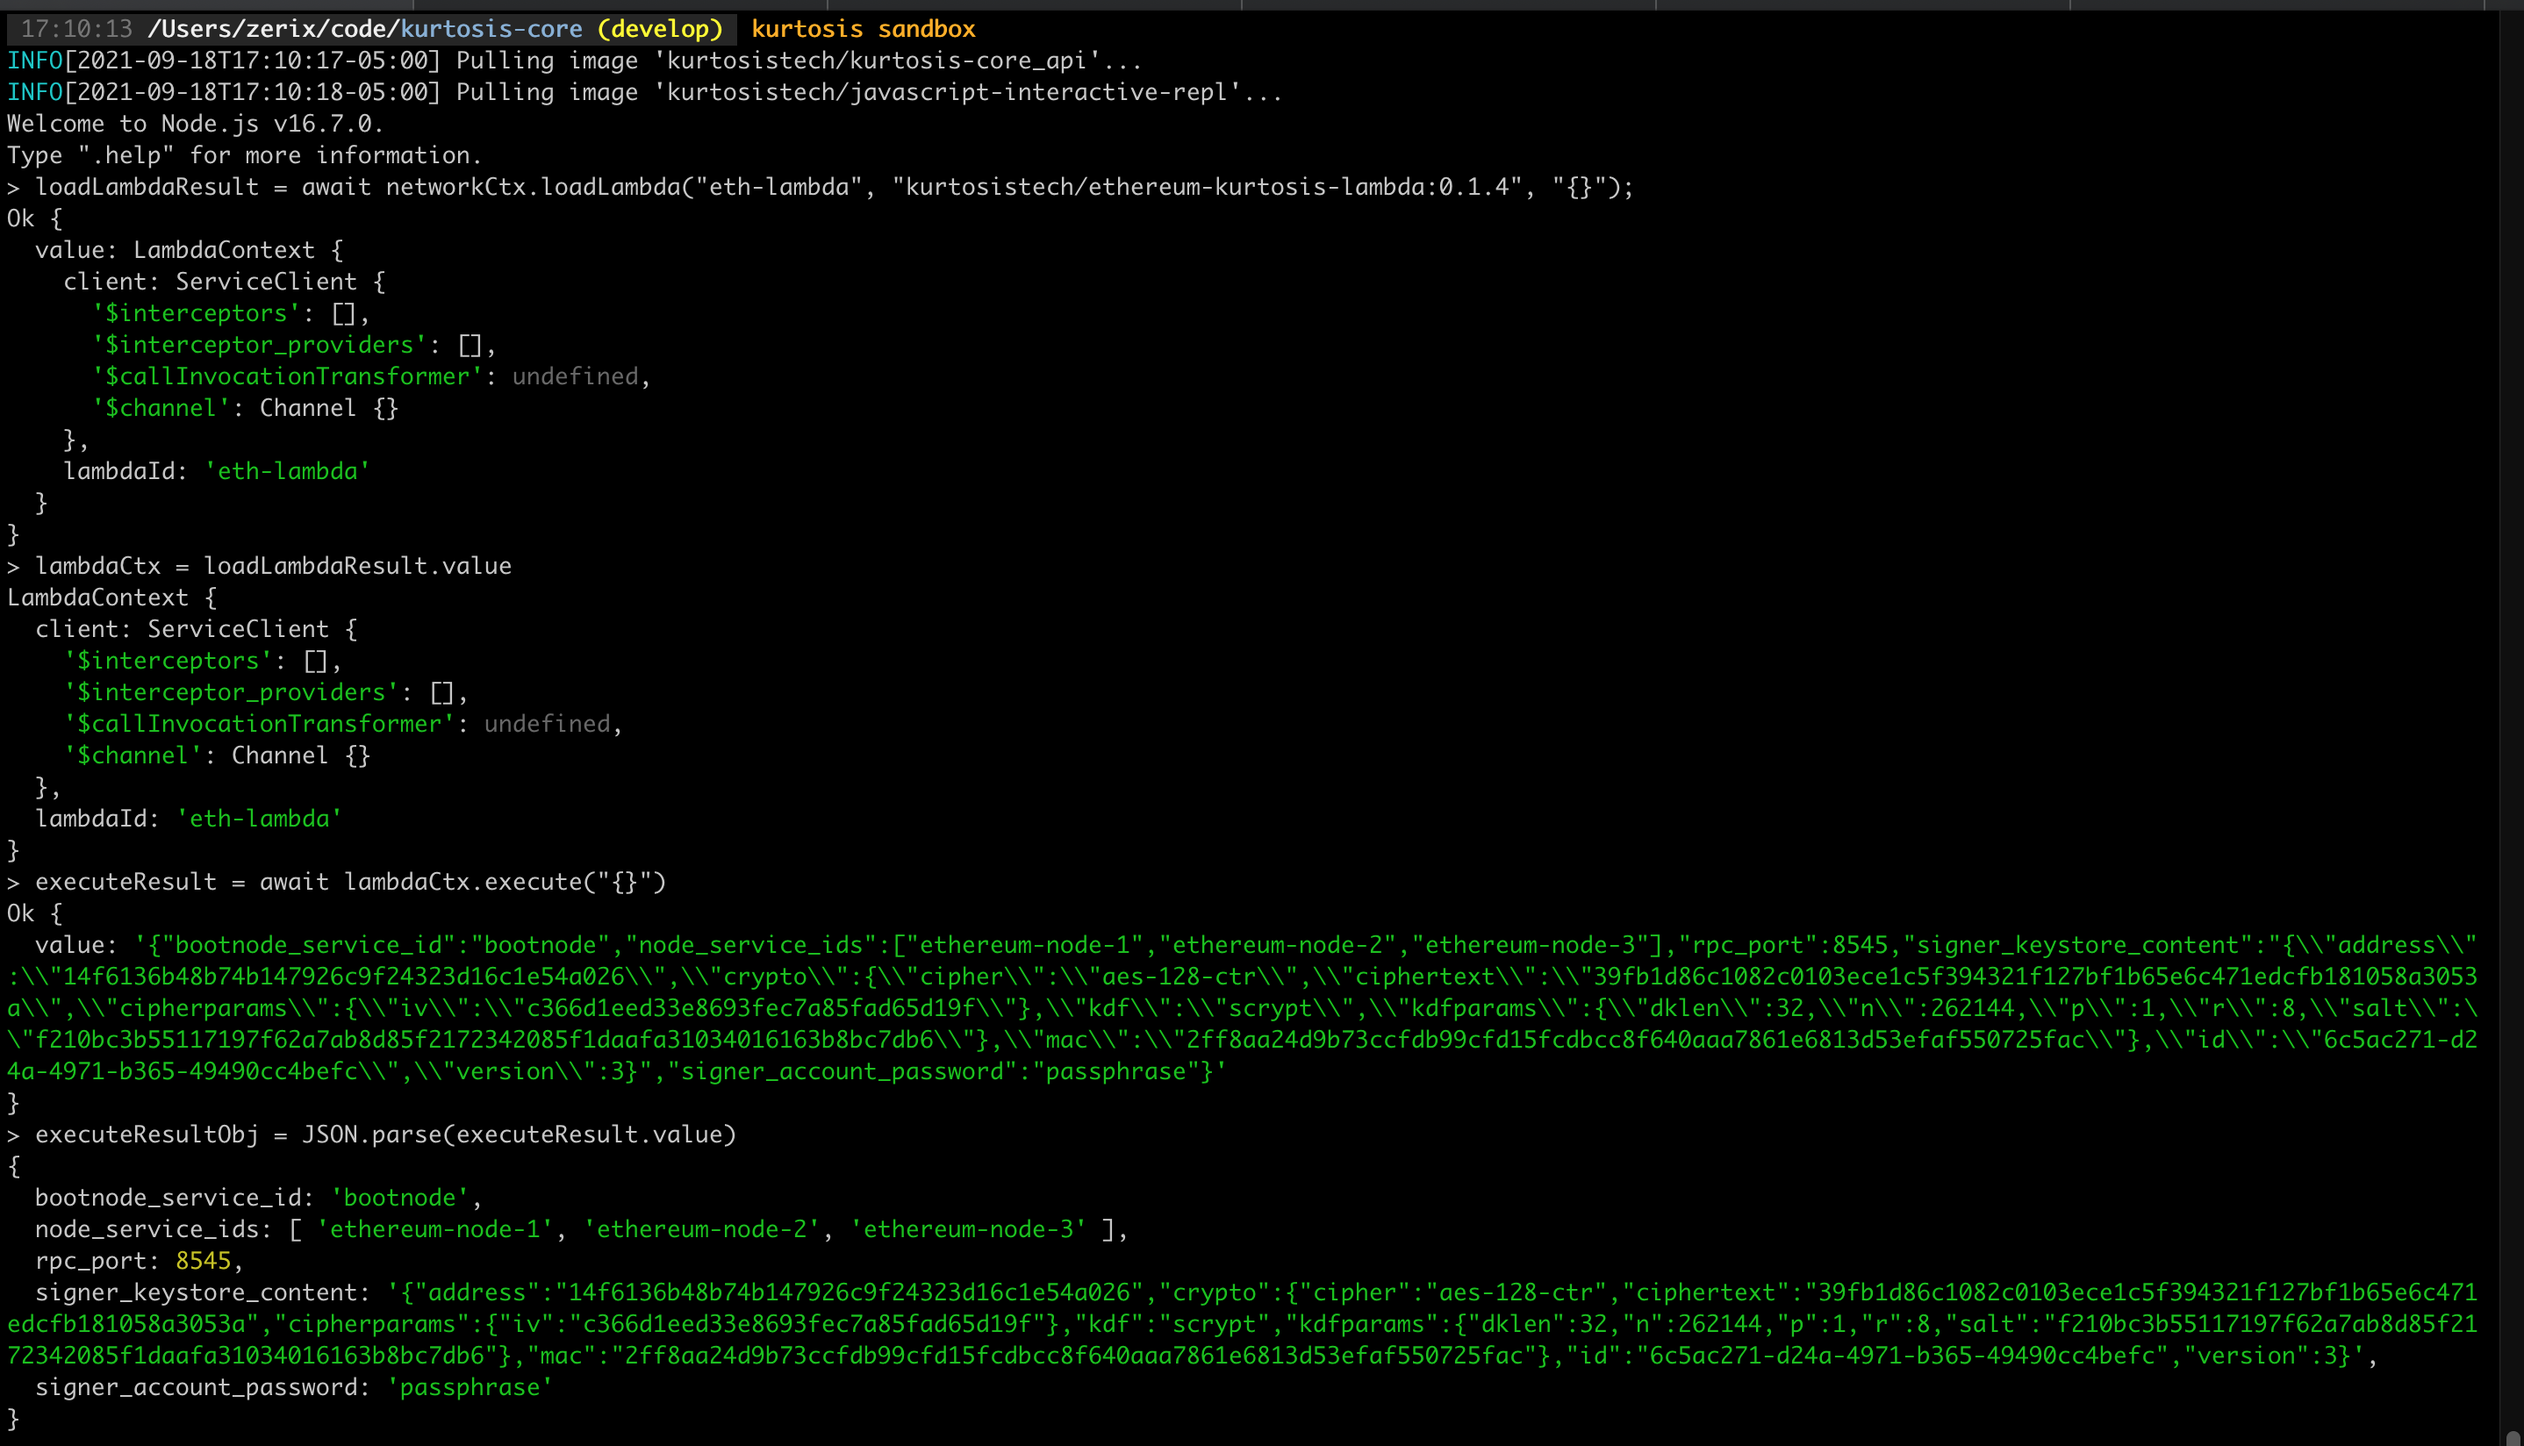
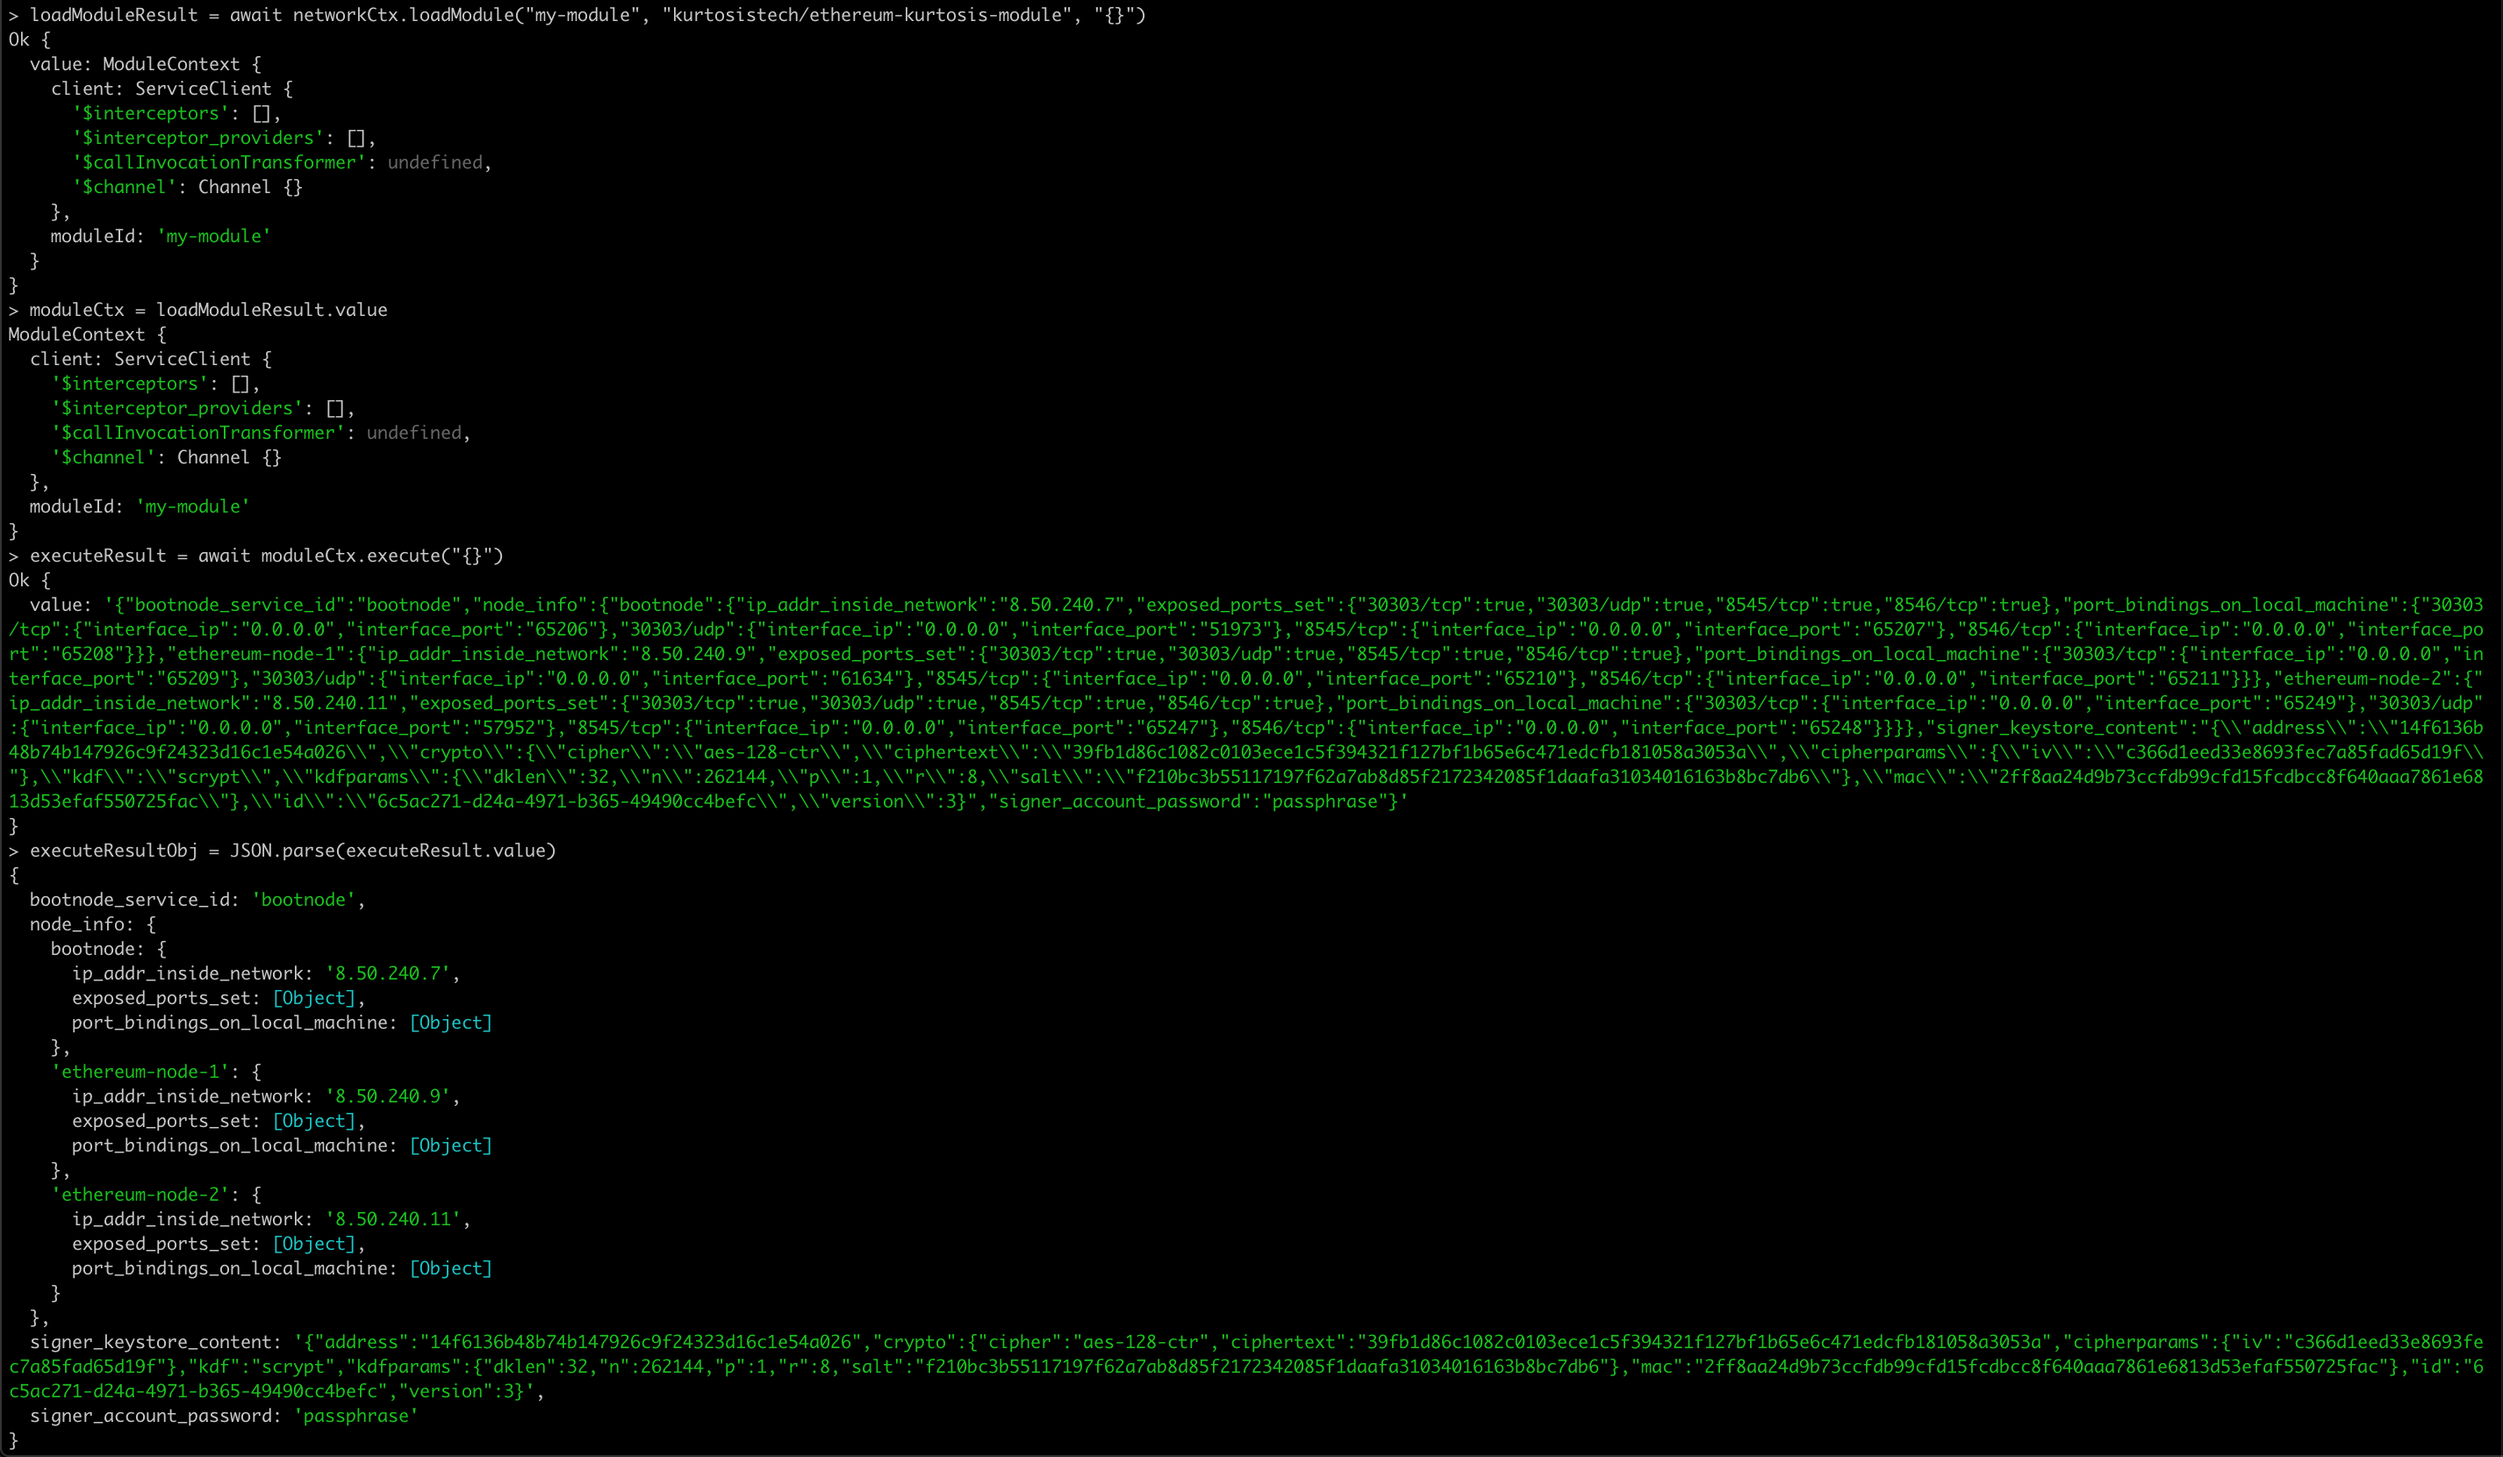
Rename all Lambda references to modules

Changed region(s): [[0.0, 0.0, 1.0, 1.0], [0.3745, 0.1238, 0.5617, 0.1547], [0.2184, 0.2476, 0.2496, 0.2785]]

diff --git a/modules.md b/modules.md
@@ -1,0 +1,48 @@
+Kurtosis Modules
+================
+### What's a module?
+You might want to package your logic for a wider audience (e.g. your users), or you might want to consume someone else's logic. Kurtosis' solution to this are "modules", which are chunks of code, packaged as container images, that execute within the Kurtosis context. You can think of a module as a language-agnostic library.
+
+To write your own module, visit [the module starter pack repo](https://github.com/kurtosis-tech/kurtosis-module-starter-pack).
+
+### Uses
+Some hypothetical modules that could be built:
+
+* Occasionally kill services in the network (like Netflix' [Chaos Monkey](https://netflix.github.io/chaosmonkey/))
+* Repartition the network periodically
+* Mutate the state of the network
+
+### Executable Modules
+The most basic module is an executable module - a module that responds to exactly one command, "execute". To make these easy to run, the Kurtosis CLI comes with the following command that will load an executable module and call its execute command:
+
+```
+kurtosis module exec EXECUTABLE_MODULE_IMAGE
+```
+
+You can run `kurtosis module exec -h` for more detailed information about the flags that can be passed in.
+
+### Known Modules
+The current modules we know about:
+
+* [Ethereum Module](https://github.com/kurtosis-tech/ethereum-kurtosis-module): Starts an Ethereum network in Kurtosis
+* [NEAR Module](https://github.com/kurtosis-tech/near-kurtosis-module): Starts a NEAR blockchain and accompanying wallet, explorer, etc. in Kurtosis
+* [Datastore Army Module](https://github.com/kurtosis-tech/datastore-army-module): Starts multiple [datastore services](https://github.com/kurtosis-tech/example-microservices); used for demonstration purposes
+
+
+### Technical Details
+Under the covers, modules are:
+
+1. A gRPC server
+1. In an arbitrary language
+1. With a connection to the Kurtosis engine 
+1. With endpoints for interacting with the module
+    * E.g. an executable module will have an "execute" endpoint
+1. That is packaged inside a Docker image
+
+The containerized nature of modules means that they can be written in your language of choice, and easily distributed via Dockerhub.
+
+The API that a module must implement is defined in [the module API lib](https://github.com/kurtosis-tech/kurtosis-module-api-lib).
+
+---
+
+[Back to index](https://docs.kurtosistech.com)

diff --git a/sandbox.md b/sandbox.md
@@ -10,16 +10,16 @@ kurtosis sandbox
 
 The Javascript REPL that starts will 1) have `await` available and 2) have a `networkCtx` variable instance of the `NetworkContext` object from [the documentation][lib-documentation].
 
-E.g. starting an Ethereum network using [the Ethereum Lambda](https://github.com/kurtosis-tech/ethereum-kurtosis-lambda):
+E.g. starting an Ethereum network using [the Ethereum module](https://github.com/kurtosis-tech/ethereum-kurtosis-module):
 
 ![Starting an Ethereum network](./images/starting-eth-network-in-kurtosis-interactive.png)
 
 The commands from above, for copy-pasting:
 ```
 kurtosis sandbox
-loadLambdaResult = await networkCtx.loadLambda("eth-lambda", "kurtosistech/ethereum-kurtosis-lambda:0.1.4", "{}")
-lambdaCtx = loadLambdaResult.value
-executeResult = await lambdaCtx.execute("{}")
+loadModuleResult = await networkCtx.loadModule("my-module", "kurtosistech/ethereum-kurtosis-module", "{}")
+moduleCtx = loadModuleResult.value
+executeResult = await moduleCtx.execute("{}")
 executeResultObj = JSON.parse(executeResult.value)
 console.log(executeResultObj)
 ```

diff --git a/index.md b/index.md
@@ -21,7 +21,7 @@ Beyond The Basics
 * [Building & Running](./building-and-running.md)
 * [Running Kurtosis in CI](./running-in-ci.md)
 * [Kurtosis Sandbox](./sandbox.md)
-* [Kurtosis Lambdas](./lambdas.md)
+* [Kurtosis Modules](./modules.md)
 * [Advanced Usage](./advanced-usage.md)
 
 Upgrading Kurtosis
